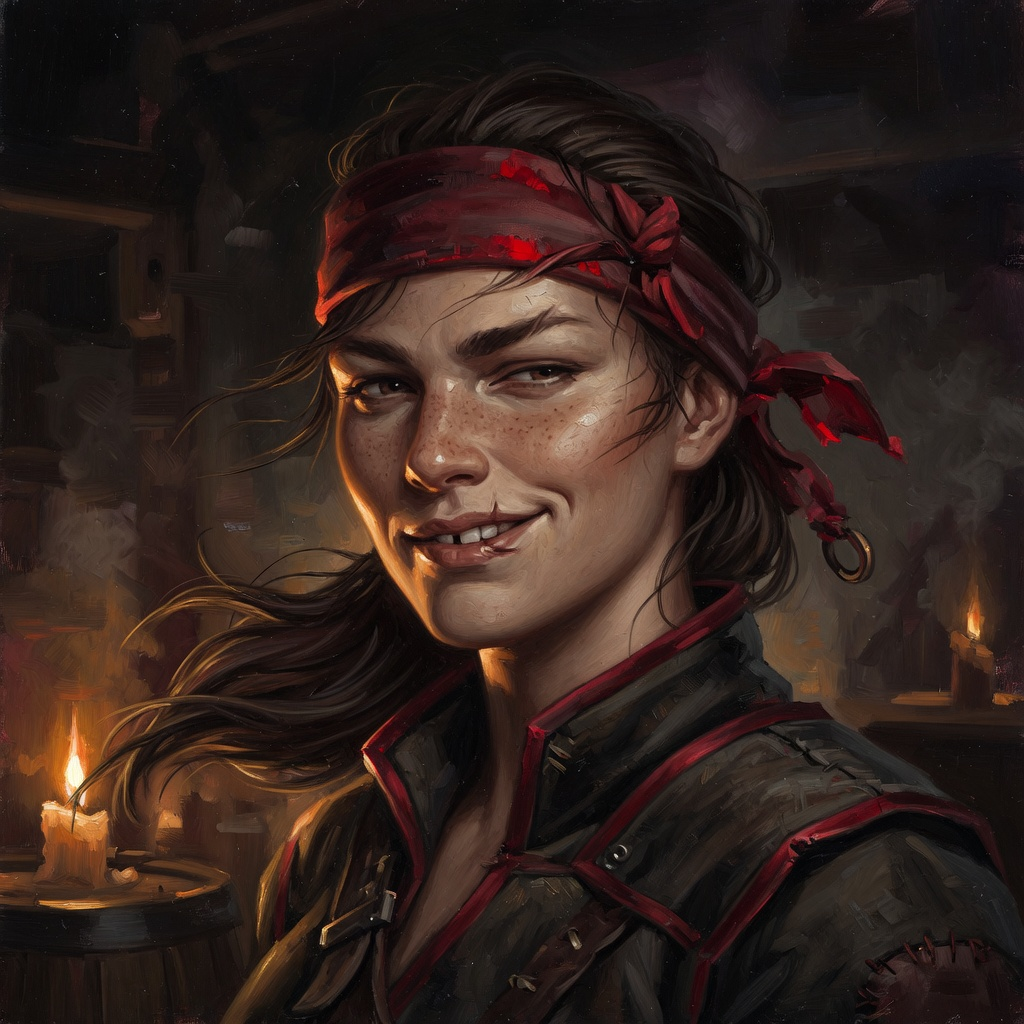
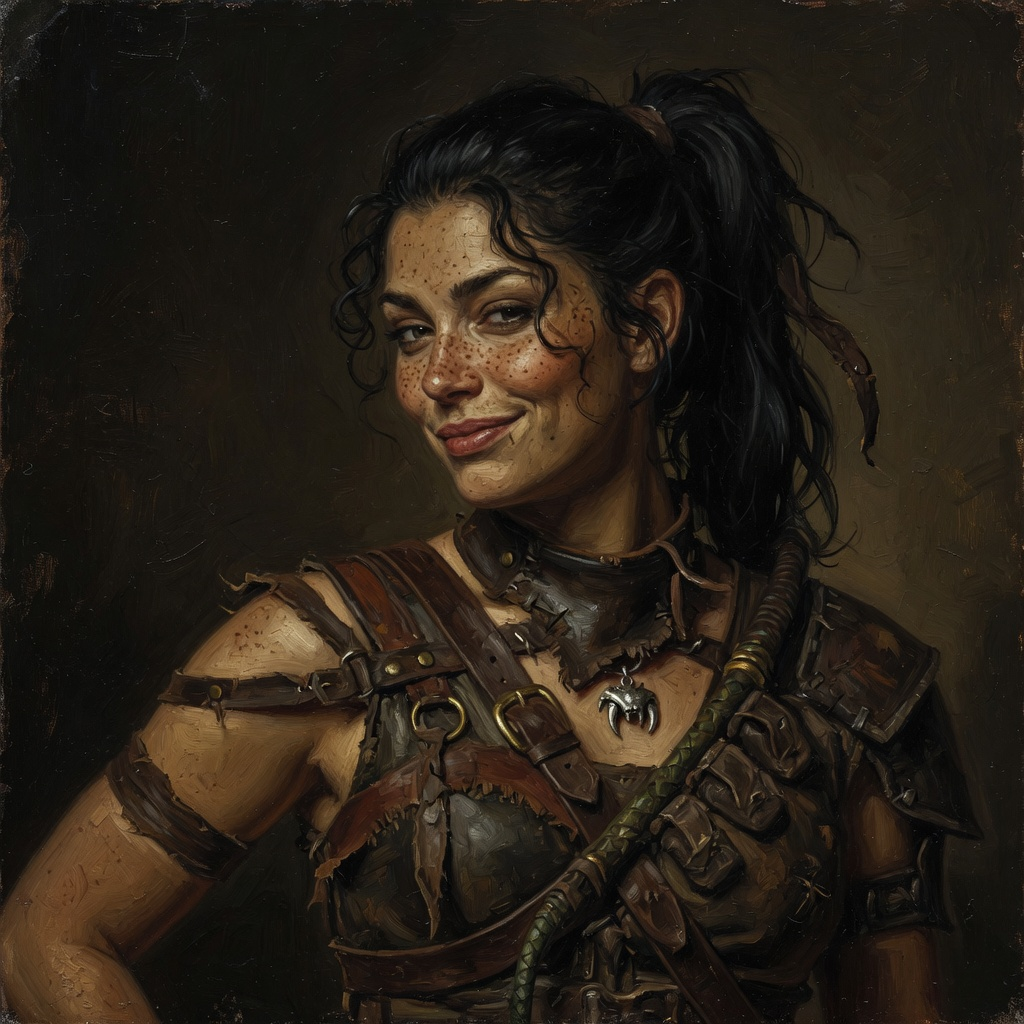
v13.1: top HUD overhaul + Kess portrait repaint
- Rebuilt the persistent top bar into a real game HUD: hero crest + name/level
  block with an EXP bar, realm name engraved center, right cluster with red
  HP / blue MP bars, painted gold coin, and Warden orb sockets.
- Repainted Kess (chosen ponytail base) in the weathered muted lantern-lit
  oil style so she matches the rest of the cast instead of reading too clean.

tsc clean; 190/190 tests.

diff --git a/web/src/App.css b/web/src/App.css
@@ -1189,3 +1189,138 @@ h2.title {
 .title-with-icon .ui-icon {
   filter: drop-shadow(0 1px 3px rgba(0, 0, 0, 0.7));
 }
+
+/* ============ v13.1: proper top HUD (hero crest · realm · vitals) ============ */
+.game-header.hud {
+  justify-content: space-between;
+  gap: 18px;
+  padding: 8px 18px;
+}
+
+.hud-hero {
+  display: flex;
+  align-items: center;
+  gap: 11px;
+  min-width: 0;
+}
+
+.hud-crest {
+  width: 46px;
+  height: 46px;
+  border-radius: 50%;
+  overflow: hidden;
+  flex-shrink: 0;
+  background: radial-gradient(circle at 40% 35%, rgba(60, 48, 28, 0.8), rgba(10, 8, 6, 0.9));
+  border: 1px solid var(--gold-deep, #a8863c);
+  box-shadow: 0 0 12px rgba(201, 162, 39, 0.25), inset 0 -3px 6px rgba(0, 0, 0, 0.5);
+  display: flex;
+  align-items: center;
+  justify-content: center;
+}
+.hud-crest > * { transform: translateY(3px); }
+
+.hud-idblock {
+  display: flex;
+  flex-direction: column;
+  gap: 2px;
+  min-width: 0;
+}
+
+.hud-idblock .hud-name {
+  margin: 0;
+  line-height: 1.1;
+}
+
+.hud-sub {
+  font-size: 0.7rem;
+  letter-spacing: 0.04em;
+  color: var(--text-dim);
+  white-space: nowrap;
+  overflow: hidden;
+  text-overflow: ellipsis;
+}
+
+.hud-exp {
+  width: 150px;
+  max-width: 40vw;
+  height: 4px;
+  border-radius: 3px;
+  background: rgba(0, 0, 0, 0.6);
+  box-shadow: inset 0 1px 2px rgba(0, 0, 0, 0.8);
+  overflow: hidden;
+  margin-top: 2px;
+}
+.hud-exp-fill {
+  height: 100%;
+  background: linear-gradient(90deg, #6a8f4a, #9fce6a);
+  box-shadow: 0 0 6px rgba(159, 206, 106, 0.5);
+  transition: width 0.5s ease;
+}
+
+.hud-realm {
+  flex: 1;
+  text-align: center;
+  overflow: hidden;
+  text-overflow: ellipsis;
+  white-space: nowrap;
+}
+
+.hud-right {
+  display: flex;
+  align-items: center;
+  gap: 16px;
+  flex-shrink: 0;
+}
+
+.hud-vitals {
+  display: flex;
+  flex-direction: column;
+  gap: 4px;
+}
+.hud-vital {
+  display: flex;
+  align-items: center;
+  gap: 7px;
+}
+.hud-vbar {
+  width: 116px;
+  height: 9px;
+  border-radius: 4px;
+  background: linear-gradient(180deg, #050403, #12100c);
+  border: 1px solid var(--border-dim, #3a332a);
+  box-shadow: inset 0 1px 2px rgba(0, 0, 0, 0.75);
+  overflow: hidden;
+}
+.hud-vfill {
+  height: 100%;
+  border-radius: 3px 0 0 3px;
+  transition: width 0.4s cubic-bezier(0.22, 1, 0.36, 1);
+  box-shadow: inset 0 1px 0 rgba(255, 255, 255, 0.25);
+}
+.hud-vfill.hp { background: linear-gradient(180deg, #f0796b 0%, #c73e33 55%, #8e241c 100%); }
+.hud-vfill.mp { background: linear-gradient(180deg, #7fb6f0 0%, #3f74c2 55%, #24488a 100%); }
+.hud-vlabel {
+  font-size: 0.66rem;
+  color: var(--text-dim);
+  font-variant-numeric: tabular-nums;
+  min-width: 52px;
+}
+
+.hud-gold {
+  display: inline-flex;
+  align-items: center;
+  gap: 6px;
+  font-family: var(--font-display);
+  font-weight: 600;
+  color: var(--gold, #c9a227);
+  font-variant-numeric: tabular-nums;
+}
+
+.hud-mute { padding: 5px 9px; }
+
+@media (max-width: 780px) {
+  .game-header.hud { flex-wrap: wrap; }
+  .hud-realm { order: 3; flex-basis: 100%; text-align: left; }
+  .hud-vbar { width: 84px; }
+  .hud-exp { width: 110px; }
+}

diff --git a/web/src/App.tsx b/web/src/App.tsx
@@ -27,6 +27,8 @@ import { FallenScreen } from './components/FallenScreen';
 import { MonsterSheetScreen } from './components/MonsterSheetScreen';
 import { PartySidebar } from './components/PartySidebar';
 import { LogPanel } from './components/LogPanel';
+import { Icon } from './components/Icon';
+import { HeroImage } from './art/MonsterImage';
 import { play as sfx, setMuted, isMuted } from './platform/sfx';
 
 type Banner = { text: string; kind: 'victory' | 'death' | 'tamed' } | null;
@@ -77,31 +79,66 @@ function App() {
 
   return (
     <div className={`game ${inBattle ? 'battle-mode' : ''}`}>
-      <header className="game-header">
-        <span className="hud-name">
-          {player.name} · Lv{player.level} {player.race} {player.className}
-        </span>
-        {state.world && <span className="realm-name">{state.world.name}</span>}
-        <span className="gold">☉ {player.gold}</span>
-        <span className="orbs" title={`Wardens' Orbs: ${state.orbs.length}/4`}>
-          {[0, 1, 2, 3].map((i) => (
-            <span key={i} className={`orb ${i < state.orbs.length ? 'filled' : 'empty'}`} />
-          ))}
-        </span>
-        <span className="pill">
-          EXP {player.exp}/{player.expToNext()}
-        </span>
-        <button
-          className="btn small"
-          title={muted ? 'Unmute' : 'Mute'}
-          onClick={() => {
-            const next = !muted;
-            setMuted(next);
-            setMutedState(next);
-          }}
-        >
-          {muted ? '🔇' : '🔊'}
-        </button>
+      <header className="game-header hud">
+        <div className="hud-hero">
+          <div className="hud-crest">
+            <HeroImage className={player.className} size={46} />
+          </div>
+          <div className="hud-idblock">
+            <div className="hud-name">{player.name}</div>
+            <div className="hud-sub">
+              Lv {player.level} · {player.race} {player.className}
+            </div>
+            <div className="hud-exp" title={`EXP ${player.exp}/${player.expToNext()}`}>
+              <div className="hud-exp-fill" style={{ width: `${Math.min(100, Math.round((player.exp / player.expToNext()) * 100))}%` }} />
+            </div>
+          </div>
+        </div>
+
+        {state.world && <span className="realm-name hud-realm">{state.world.name}</span>}
+
+        <div className="hud-right">
+          <div className="hud-vitals">
+            <div className="hud-vital">
+              <div className="hud-vbar">
+                <div className="hud-vfill hp" style={{ width: `${Math.max(0, Math.round((player.hp / player.maxHp) * 100))}%` }} />
+              </div>
+              <span className="hud-vlabel">
+                {player.hp}/{player.maxHp}
+              </span>
+            </div>
+            <div className="hud-vital">
+              <div className="hud-vbar">
+                <div className="hud-vfill mp" style={{ width: `${player.maxMp ? Math.max(0, Math.round((player.mp / player.maxMp) * 100)) : 0}%` }} />
+              </div>
+              <span className="hud-vlabel">
+                {player.mp}/{player.maxMp}
+              </span>
+            </div>
+          </div>
+
+          <div className="hud-gold" title="Gold">
+            <Icon name="gold" emoji="☉" size={18} /> {player.gold}
+          </div>
+
+          <span className="orbs hud-orbs" title={`Wardens' Orbs: ${state.orbs.length}/4`}>
+            {[0, 1, 2, 3].map((i) => (
+              <span key={i} className={`orb ${i < state.orbs.length ? 'filled' : 'empty'}`} />
+            ))}
+          </span>
+
+          <button
+            className="btn small hud-mute"
+            title={muted ? 'Unmute' : 'Mute'}
+            onClick={() => {
+              const next = !muted;
+              setMuted(next);
+              setMutedState(next);
+            }}
+          >
+            {muted ? '🔇' : '🔊'}
+          </button>
+        </div>
       </header>
 
       <main className="game-main">